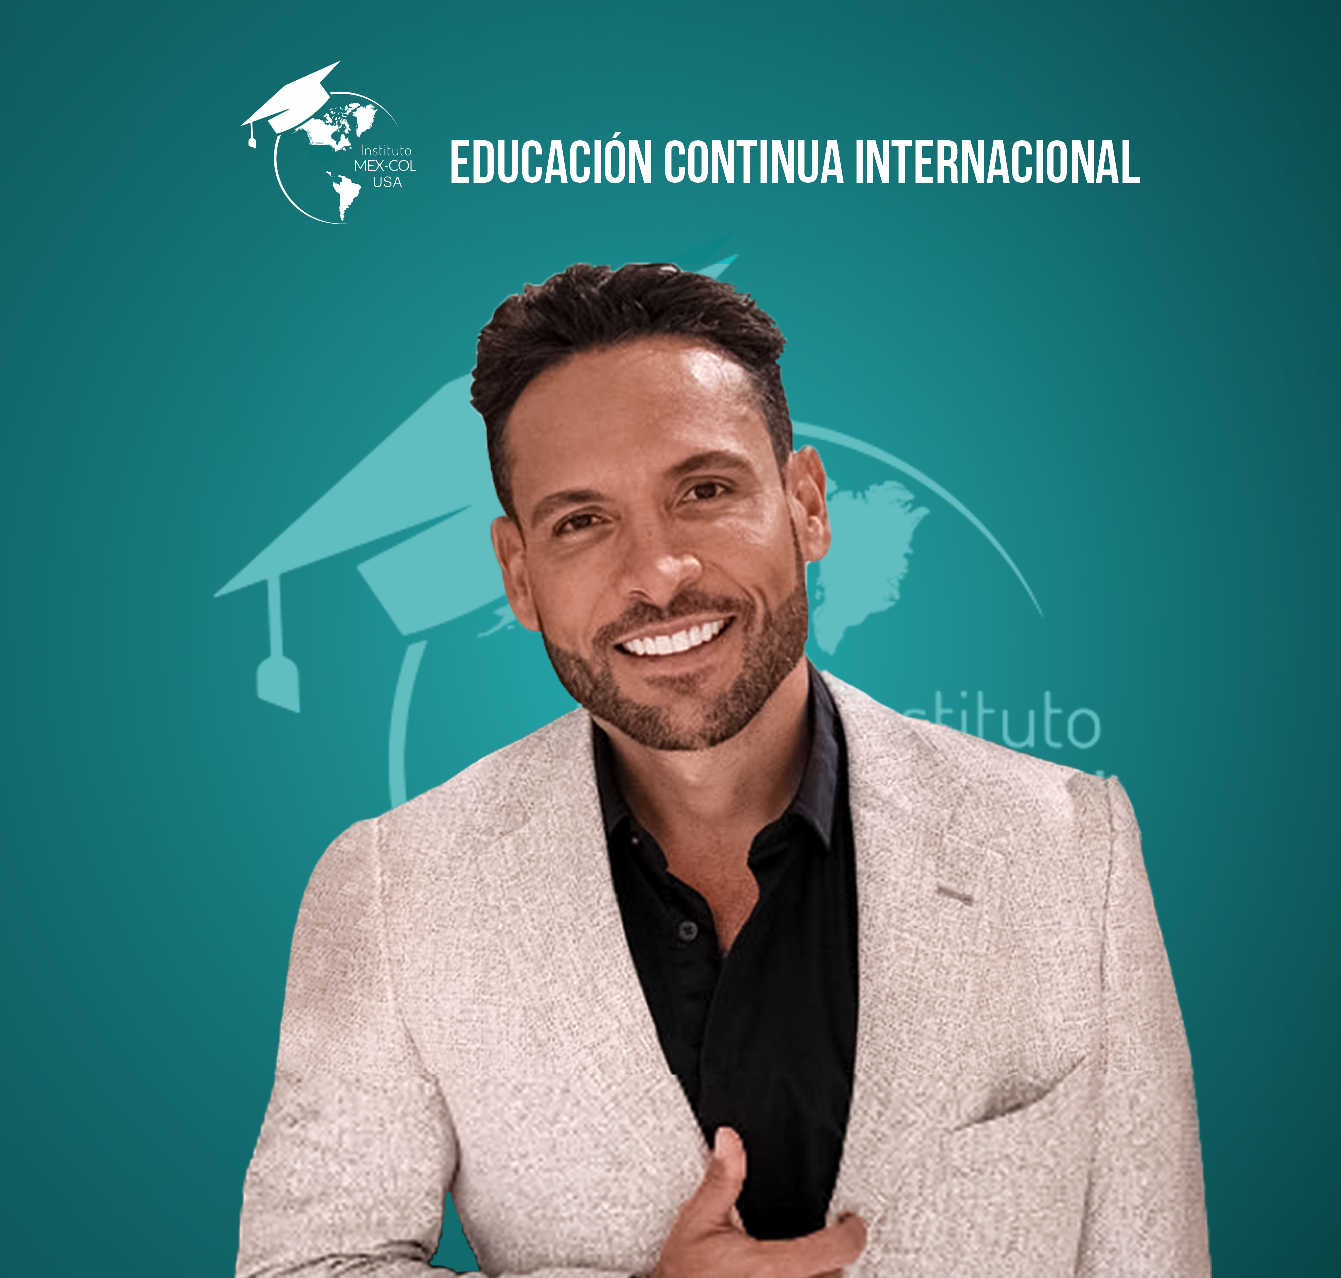
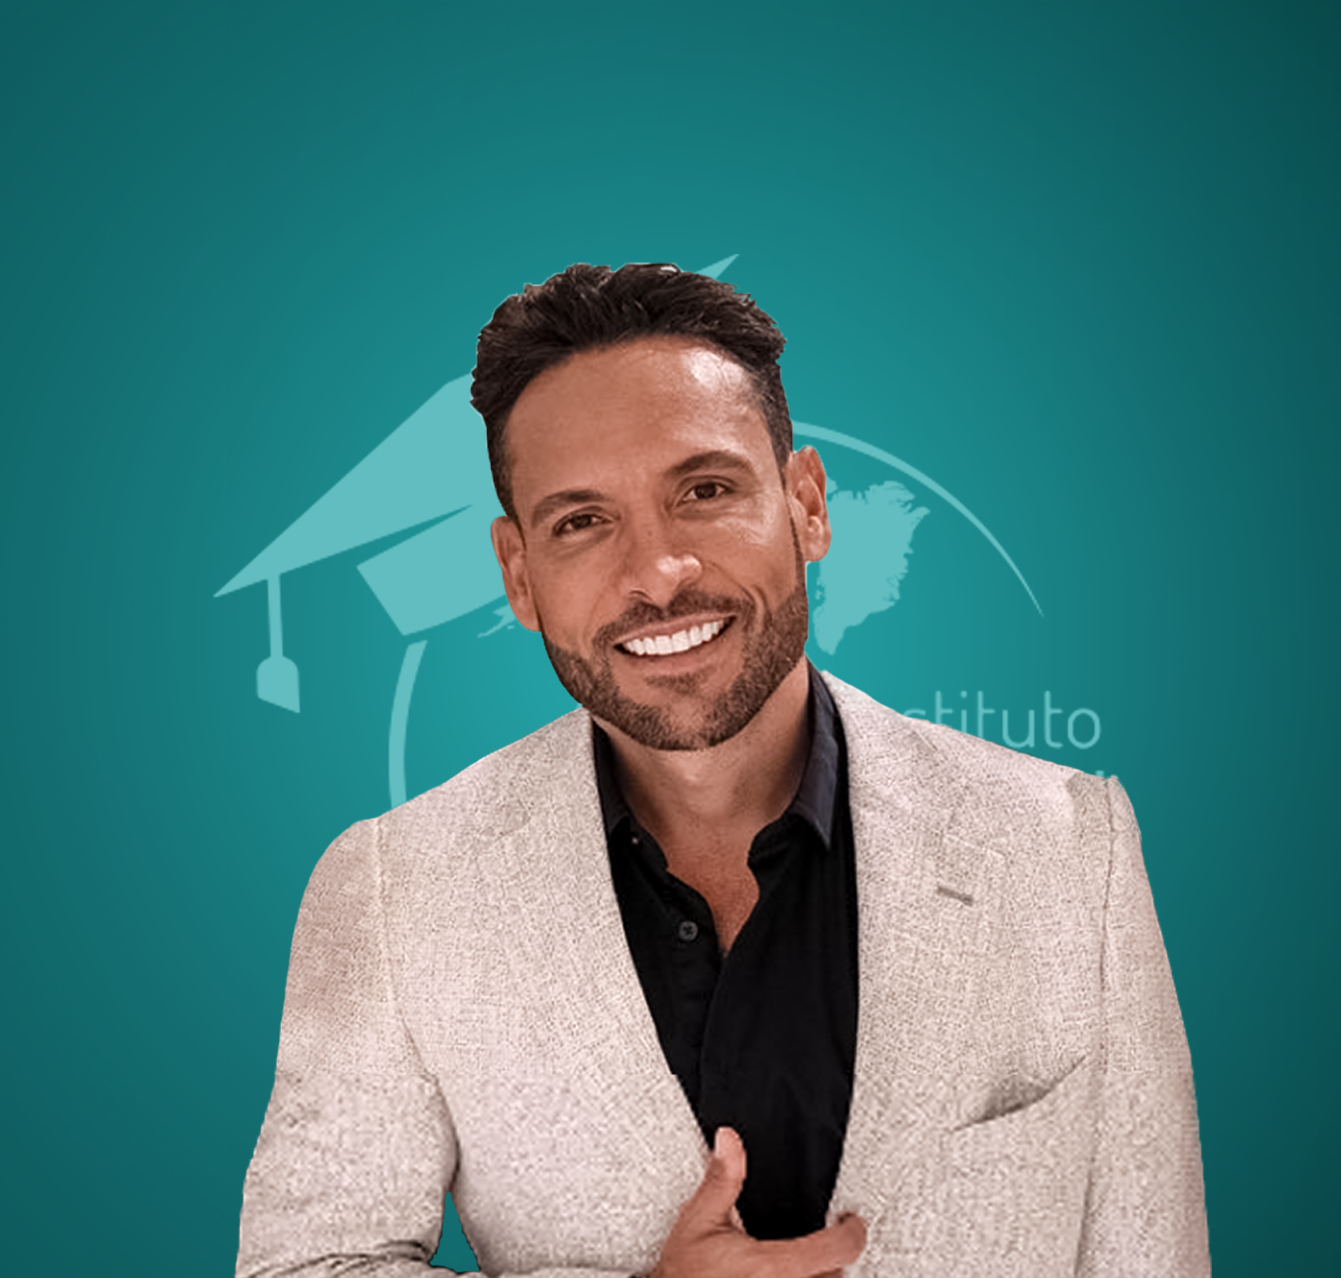
cambio de imagenes del director medico y la directora general en version de escritorio

Changed region(s): [[0.3363, 0.0915, 0.8561, 0.1526], [0.1834, 0.061, 0.3057, 0.1831]]

diff --git a/src/app/page.tsx b/src/app/page.tsx
@@ -21,7 +21,7 @@ import BrandMarquee from '@/components/shared/BrandMarquee';
 import { useLanguage } from '@/hooks/use-language';
 import { translations } from '@/lib/i18n';
 import InicioBanner from '@/assets/img-heros/Hero Home.png';
-import LogoUSAVerde from '@/assets/Logo-USA-Blanco.png';
+import LogoUSAVerde from '@/assets/logo-sello-blanco2.png';
 
 const CouponForm = dynamic(() => import('@/components/home/CouponForm'), {
   ssr: false,
@@ -73,12 +73,12 @@ export default function Home() {
             priority
             quality={100}
           />
-          <div className="absolute inset-0 bg-black/30" />
+          <div className="absolute inset-0 bg-black/50" />
         </div>
         
         <div className="relative z-10 h-full container mx-auto px-4 flex flex-col">
-          <div className="flex justify-center md:justify-end pt-6 md:pt-10 lg:pt-12">
-            <div className="relative w-24 h-24 md:w-32 md:h-32 lg:w-36 lg:h-36">
+          <div className="flex justify-end pt-4 md:pt-8 lg:pt-6 pr-4 md:pr-4 lg:pr-6">
+            <div className="relative w-20 h-20 md:w-32 md:h-32 lg:w-36 lg:h-36">
               <Image
                 src={LogoUSAVerde}
                 alt="Instituto MexCol USA Logo"
@@ -172,29 +172,27 @@ export default function Home() {
               opts={{ align: 'start', loop: true }} 
               plugins={[Autoplay({ delay: 4000 })]}
             >
-              <CarouselContent>
-                {th.testimonials.items.map((it, idx) => (
-                  <CarouselItem key={idx} className="p-2 sm:basis-1/2 lg:basis-1/3">
-                    <Card className="h-full border-0 shadow-sm hover:shadow-md transition-shadow duration-300 relative bg-white">
-                      {/* Quote icon */}
-                      <Quote className="absolute top-4 right-4 h-8 w-8 text-primary/20" />
-                      
-                      <CardHeader className="pb-3">
-                        <div className="flex items-center gap-1 mb-2">
-                          {[...Array(5)].map((_, i) => (
-                            <Star key={i} className="h-4 w-4 fill-yellow-400 text-yellow-400" />
-                          ))}
-                        </div>
-                        <CardTitle className="font-headline text-base text-foreground font-semibold">{it.name} · {it.location}</CardTitle>
-                        <CardDescription className="text-xs font-medium text-primary">{it.program}</CardDescription>
-                      </CardHeader>
-                      <CardContent className="pt-0">
-                        <p className="text-sm leading-relaxed text-muted-foreground italic">{it.text}</p>
-                      </CardContent>
-                    </Card>
+              <CarouselContent className="items-center">
+                {Array.from({ length: 11 }, (_, idx) => (
+                  <CarouselItem key={idx} className="p-2 sm:basis-1/2 lg:basis-1/3 flex items-center">
+                    <div className="relative w-full h-full group flex items-center justify-center">
+                      <div className="relative overflow-hidden rounded-xl shadow-md hover:shadow-xl transition-all duration-300 bg-white w-full flex items-center justify-center">
+                        <Image
+                          src={`/testimonios-inicio/testimonio-${idx + 1}.png`}
+                          alt={`Testimonio ${idx + 1}`}
+                          width={600}
+                          height={400}
+                          className="w-full h-auto object-contain rounded-xl transition-transform duration-500 group-hover:scale-[1.02]"
+                          quality={95}
+                        />
+                        <div className="absolute inset-0 bg-gradient-to-t from-black/5 to-transparent opacity-0 group-hover:opacity-100 transition-opacity duration-300 rounded-xl" />
+                      </div>
+                    </div>
                   </CarouselItem>
                 ))}
               </CarouselContent>
+              <CarouselPrevious className="hidden md:flex -left-12 bg-white border-2 border-primary/20 hover:border-primary/40 text-primary hover:bg-primary/5" />
+              <CarouselNext className="hidden md:flex -right-12 bg-white border-2 border-primary/20 hover:border-primary/40 text-primary hover:bg-primary/5" />
             </Carousel>
             <div className="mt-8 text-center mb-4">
               <p className="text-lg font-medium text-primary">

diff --git a/src/app/about/page.tsx b/src/app/about/page.tsx
@@ -7,7 +7,7 @@ import { translations } from '@/lib/i18n';
 import { Button } from '@/components/ui/button';
 import { Card, CardContent } from '@/components/ui/card';
 import { Badge } from '@/components/ui/badge';
-import LogoUSAVerde from '@/assets/Logo-USA-Blanco.png';
+import LogoUSAVerde from '@/assets/logo-sello-blanco2.png';
 import { CheckCircle, Users, Globe, Award, ShieldCheck, GraduationCap, FileCheck, BadgeCheck } from 'lucide-react';
 
 export default function AboutPage() {
@@ -32,8 +32,8 @@ export default function AboutPage() {
           <div className="absolute inset-0 bg-black/50"></div>
         </div>
         <div className="container mx-auto px-4 relative z-10 h-full flex flex-col">
-          <div className="flex justify-center md:justify-end pt-6 md:pt-10 lg:pt-12">
-            <div className="relative w-24 h-24 md:w-32 md:h-32 lg:w-36 lg:h-36">
+          <div className="flex justify-end pt-4 md:pt-8 lg:pt-6 pr-4 md:pr-4 lg:pr-6">
+            <div className="relative w-20 h-20 md:w-32 md:h-32 lg:w-36 lg:h-36">
               <Image
                 src={LogoUSAVerde}
                 alt="Instituto MexCol USA Logo"

diff --git a/src/app/contact/page.tsx b/src/app/contact/page.tsx
@@ -8,7 +8,7 @@ import { useLanguage } from '@/hooks/use-language';
 import { translations } from '@/lib/i18n';
 import { Tabs, TabsContent, TabsList, TabsTrigger } from '@/components/ui/tabs';
 import { Card, CardContent, CardHeader, CardTitle } from '@/components/ui/card';
-import LogoUSAVerde from '@/assets/Logo-USA-Blanco.png';
+import LogoUSAVerde from '@/assets/logo-sello-blanco2.png';
 
 export default function ContactPage() {
   const { language } = useLanguage();
@@ -74,8 +74,8 @@ export default function ContactPage() {
           <div className="absolute inset-0 bg-black/50"></div>
         </div>
         <div className="container mx-auto px-4 relative z-10 h-full flex flex-col">
-          <div className="flex justify-center md:justify-end pt-6 md:pt-10 lg:pt-12">
-            <div className="relative w-24 h-24 md:w-32 md:h-32 lg:w-36 lg:h-36">
+          <div className="flex justify-end pt-4 md:pt-8 lg:pt-6 pr-4 md:pr-4 lg:pr-6">
+            <div className="relative w-20 h-20 md:w-32 md:h-32 lg:w-36 lg:h-36">
               <Image
                 src={LogoUSAVerde}
                 alt="Instituto MexCol USA Logo"

diff --git a/src/app/academic-programs/page.tsx b/src/app/academic-programs/page.tsx
@@ -9,7 +9,7 @@ import { useLanguage } from '@/hooks/use-language';
 import { translations } from '@/lib/i18n';
 import { useSearchParams } from 'next/navigation';
 import { useEffect, useState } from 'react';
-import LogoUSAVerde from '@/assets/Logo-USA-Blanco.png';
+import LogoUSAVerde from '@/assets/logo-sello-blanco2.png';
 
 export default function AcademicProgramsPage() {
   const { language } = useLanguage();
@@ -53,8 +53,8 @@ export default function AcademicProgramsPage() {
           <div className="absolute inset-0 bg-black/50"></div>
         </div>
         <div className="container mx-auto px-4 relative z-10 h-full flex flex-col">
-          <div className="flex justify-center md:justify-end pt-6 md:pt-10 lg:pt-12">
-            <div className="relative w-24 h-24 md:w-32 md:h-32 lg:w-36 lg:h-36">
+          <div className="flex justify-end pt-4 md:pt-8 lg:pt-6 pr-4 md:pr-4 lg:pr-6">
+            <div className="relative w-20 h-20 md:w-32 md:h-32 lg:w-36 lg:h-36">
               <Image
                 src={LogoUSAVerde}
                 alt="Instituto MexCol USA Logo"

diff --git a/src/app/congress/page.tsx b/src/app/congress/page.tsx
@@ -6,7 +6,7 @@ import { Button } from '@/components/ui/button';
 import { Card, CardContent, CardHeader, CardTitle } from '@/components/ui/card';
 import PrefetchLink from '@/components/shared/PrefetchLink';
 import Image from 'next/image';
-import LogoUSAVerde from '@/assets/Logo-USA-Blanco.png';
+import LogoUSAVerde from '@/assets/logo-sello-blanco2.png';
 import { 
   MapPin, 
   Award, 
@@ -48,8 +48,8 @@ export default function CongressPage() {
           <div className="absolute inset-0 bg-black/50"></div>
         </div>
         <div className="container mx-auto px-4 relative z-10 h-full flex flex-col">
-          <div className="flex justify-center md:justify-end pt-6 md:pt-10 lg:pt-12">
-            <div className="relative w-24 h-24 md:w-32 md:h-32 lg:w-36 lg:h-36">
+          <div className="flex justify-end pt-4 md:pt-8 lg:pt-6 pr-4 md:pr-4 lg:pr-6">
+            <div className="relative w-20 h-20 md:w-32 md:h-32 lg:w-36 lg:h-36">
               <Image
                 src={LogoUSAVerde}
                 alt="Instituto MexCol USA Logo"

diff --git a/src/app/online-training/page.tsx b/src/app/online-training/page.tsx
@@ -7,7 +7,7 @@ import Image from 'next/image';
 import Link from 'next/link';
 import { useLanguage } from '@/hooks/use-language';
 import { translations } from '@/lib/i18n';
-import LogoUSAVerde from '@/assets/Logo-USA-Blanco.png';
+import LogoUSAVerde from '@/assets/logo-sello-blanco2.png';
 
 const icons = [
     <HeartPulse className="w-10 h-10 text-primary" />,
@@ -43,8 +43,8 @@ export default function OnlineTrainingPage() {
           <div className="absolute inset-0 bg-black/50"></div>
         </div>
         <div className="container mx-auto px-4 relative z-10 h-full flex flex-col">
-          <div className="flex justify-center md:justify-end pt-6 md:pt-10 lg:pt-12">
-            <div className="relative w-24 h-24 md:w-32 md:h-32 lg:w-36 lg:h-36">
+          <div className="flex justify-end pt-4 md:pt-8 lg:pt-6 pr-4 md:pr-4 lg:pr-6">
+            <div className="relative w-20 h-20 md:w-32 md:h-32 lg:w-36 lg:h-36">
               <Image
                 src={LogoUSAVerde}
                 alt="Instituto MexCol USA Logo"

diff --git a/src/app/academic-programs/colombia/[slug]/page.tsx b/src/app/academic-programs/colombia/[slug]/page.tsx
@@ -29,7 +29,7 @@ import { useLanguage } from '@/hooks/use-language';
 import { translations } from '@/lib/i18n';
 import { formatText } from '@/lib/utils/text-formatting';
 import ProductsMarquee from '@/components/shared/ProductsMarquee';
-import LogoUSAVerde from '@/assets/Logo-USA-Blanco.png';
+import LogoUSAVerde from '@/assets/logo-sello-blanco2.png';
 import { useAutoPauseVideos } from '@/hooks/use-auto-pause-videos';
 
 export default function CourseDetailPage() {
@@ -70,7 +70,7 @@ export default function CourseDetailPage() {
             className="object-cover"
             priority
           />
-          <div className="absolute inset-0 bg-black/60"></div>
+          <div className="absolute inset-0 bg-black/50"></div>
         </div>
         <div className="container mx-auto px-4 relative z-10 h-full flex flex-col">
           <div className="flex items-start justify-between pt-4 md:pt-6">

diff --git a/src/app/academic-programs/mexico/[slug]/page.tsx b/src/app/academic-programs/mexico/[slug]/page.tsx
@@ -29,7 +29,7 @@ import { useLanguage } from '@/hooks/use-language';
 import { translations } from '@/lib/i18n';
 import { formatText } from '@/lib/utils/text-formatting';
 import ProductsMarquee from '@/components/shared/ProductsMarquee';
-import LogoUSAVerde from '@/assets/Logo-USA-Blanco.png';
+import LogoUSAVerde from '@/assets/logo-sello-blanco2.png';
 import { useAutoPauseVideos } from '@/hooks/use-auto-pause-videos';
 
 export default function CourseDetailPage() {
@@ -70,7 +70,7 @@ export default function CourseDetailPage() {
             className="object-cover"
             priority
           />
-          <div className="absolute inset-0 bg-black/60"></div>
+          <div className="absolute inset-0 bg-black/50"></div>
         </div>
         <div className="container mx-auto px-4 relative z-10 h-full flex flex-col">
           <div className="flex items-start justify-between pt-4 md:pt-6">

diff --git a/src/app/academic-programs/usa/[slug]/page.tsx b/src/app/academic-programs/usa/[slug]/page.tsx
@@ -30,7 +30,7 @@ import { useLanguage } from '@/hooks/use-language';
 import { translations } from '@/lib/i18n';
 import { formatText } from '@/lib/utils/text-formatting';
 import ProductsMarquee from '@/components/shared/ProductsMarquee';
-import LogoUSAVerde from '@/assets/Logo-USA-Blanco.png';
+import LogoUSAVerde from '@/assets/logo-sello-blanco2.png';
 import { useAutoPauseVideos } from '@/hooks/use-auto-pause-videos';
 
 export default function CourseDetailPage() {
@@ -71,7 +71,7 @@ export default function CourseDetailPage() {
             className="object-cover"
             priority
           />
-          <div className="absolute inset-0 bg-black/60"></div>
+          <div className="absolute inset-0 bg-black/50"></div>
         </div>
         <div className="container mx-auto px-4 relative z-10 h-full flex flex-col">
           <div className="flex items-start justify-between pt-4 md:pt-6">

diff --git a/EJEMPLOS-FORMATO-TEXTO.md b/EJEMPLOS-FORMATO-TEXTO.md
@@ -175,3 +175,5 @@ Solo necesitas:
 
 
 
+
+
